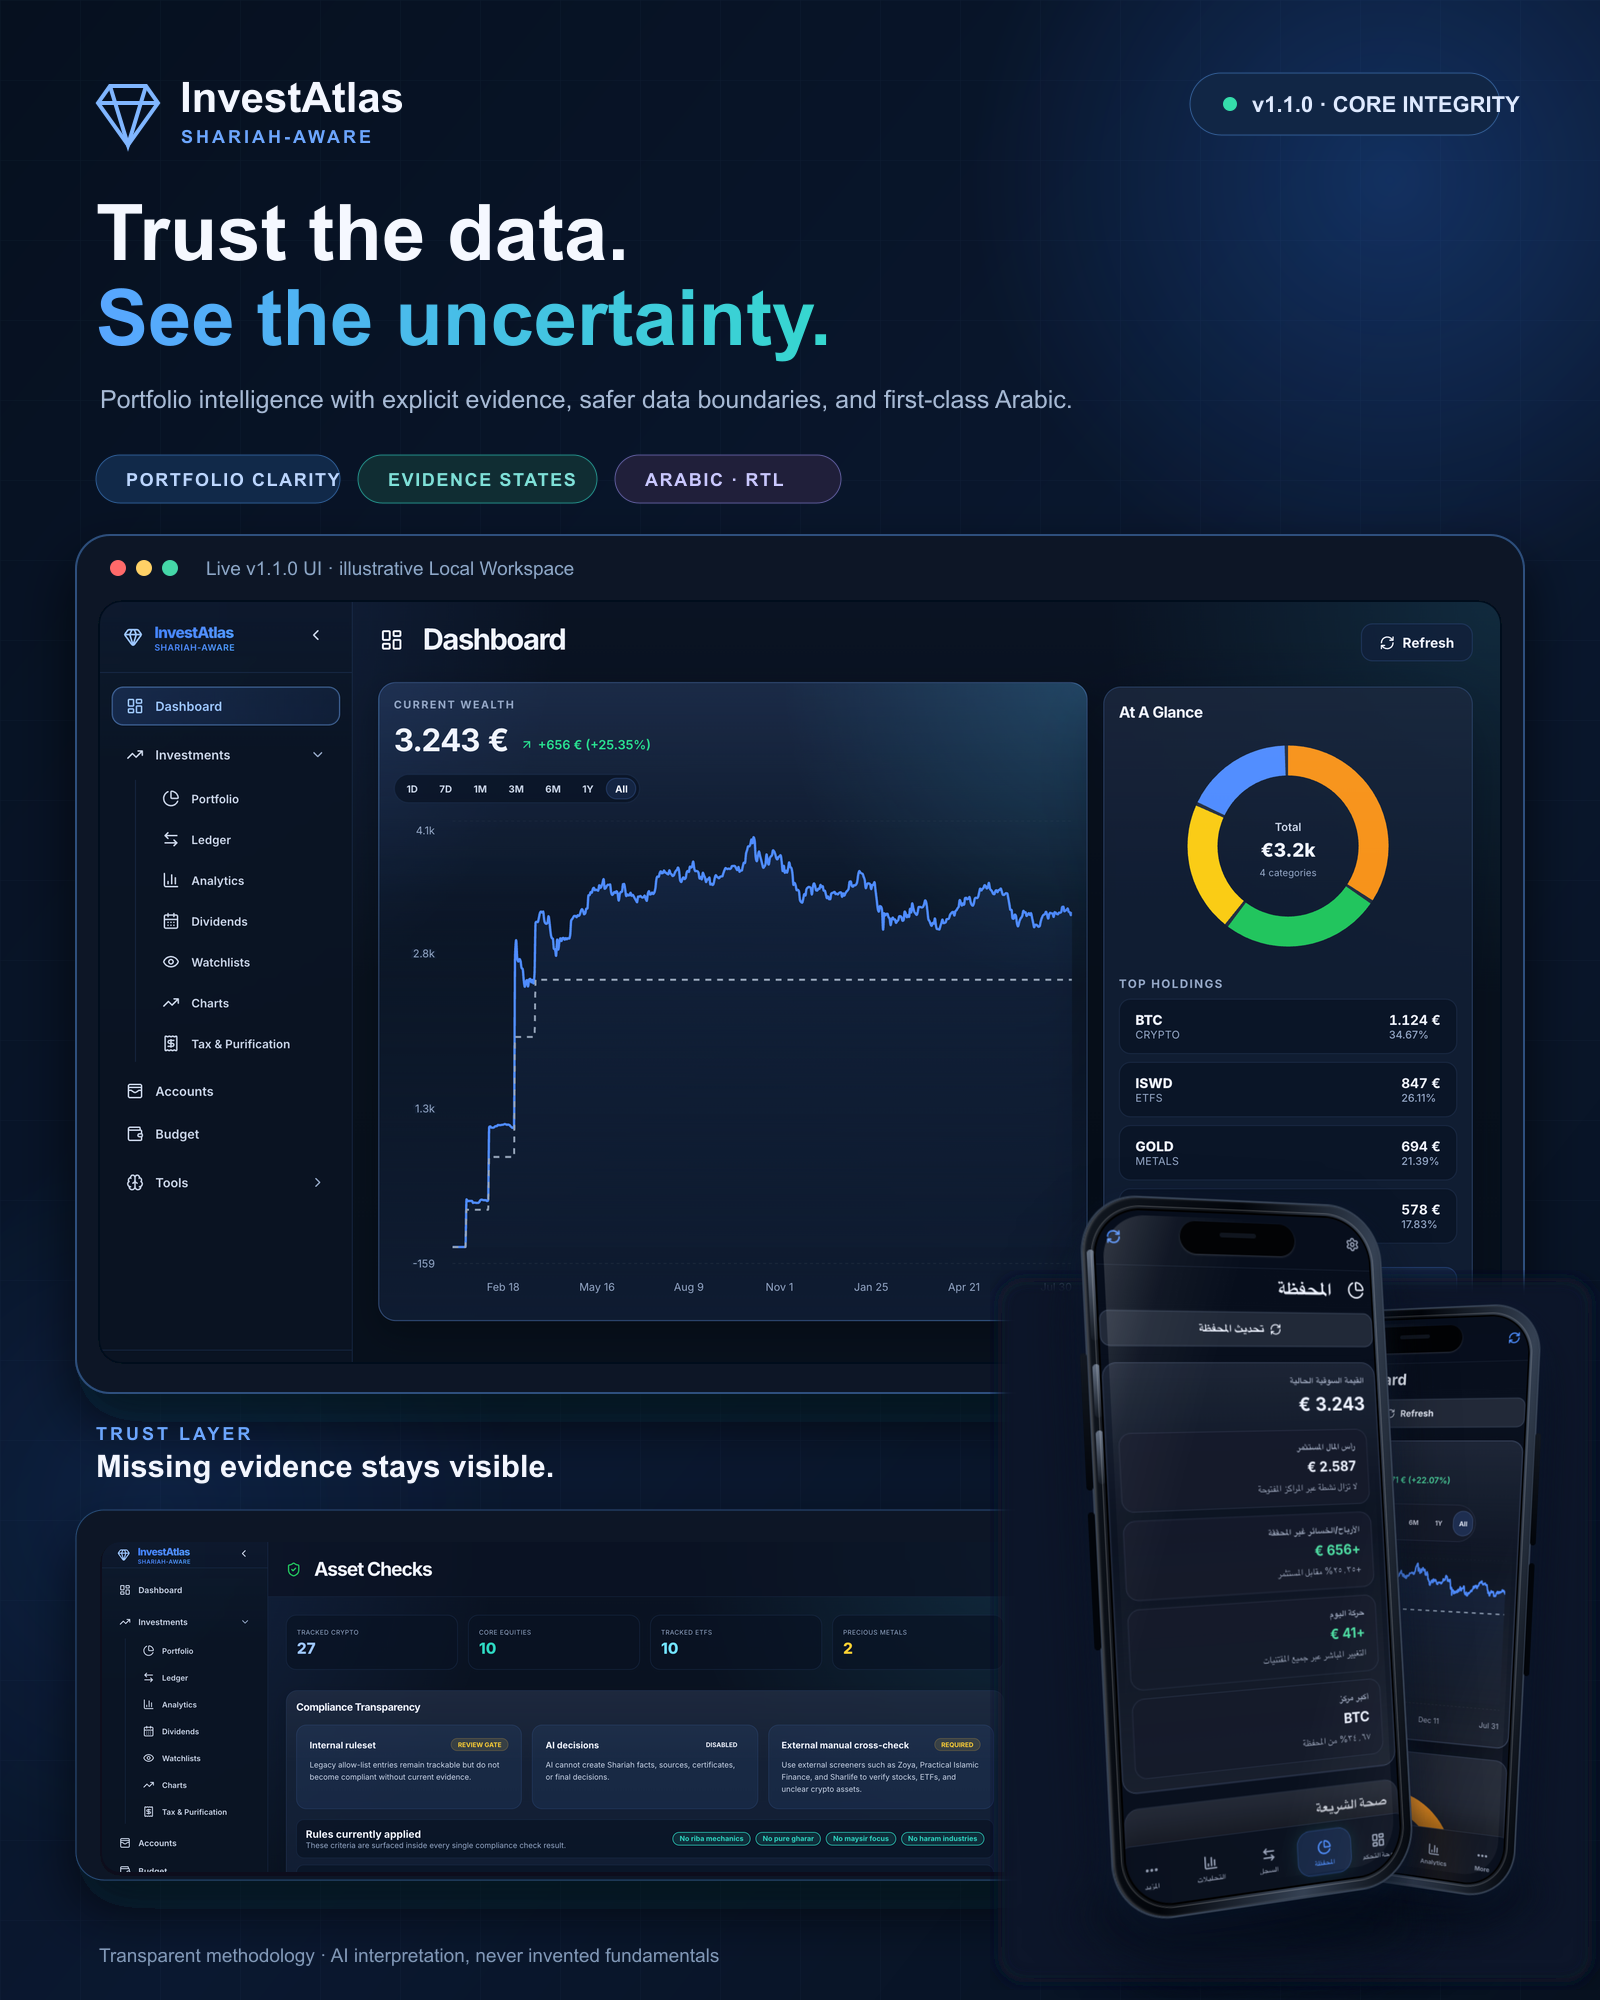
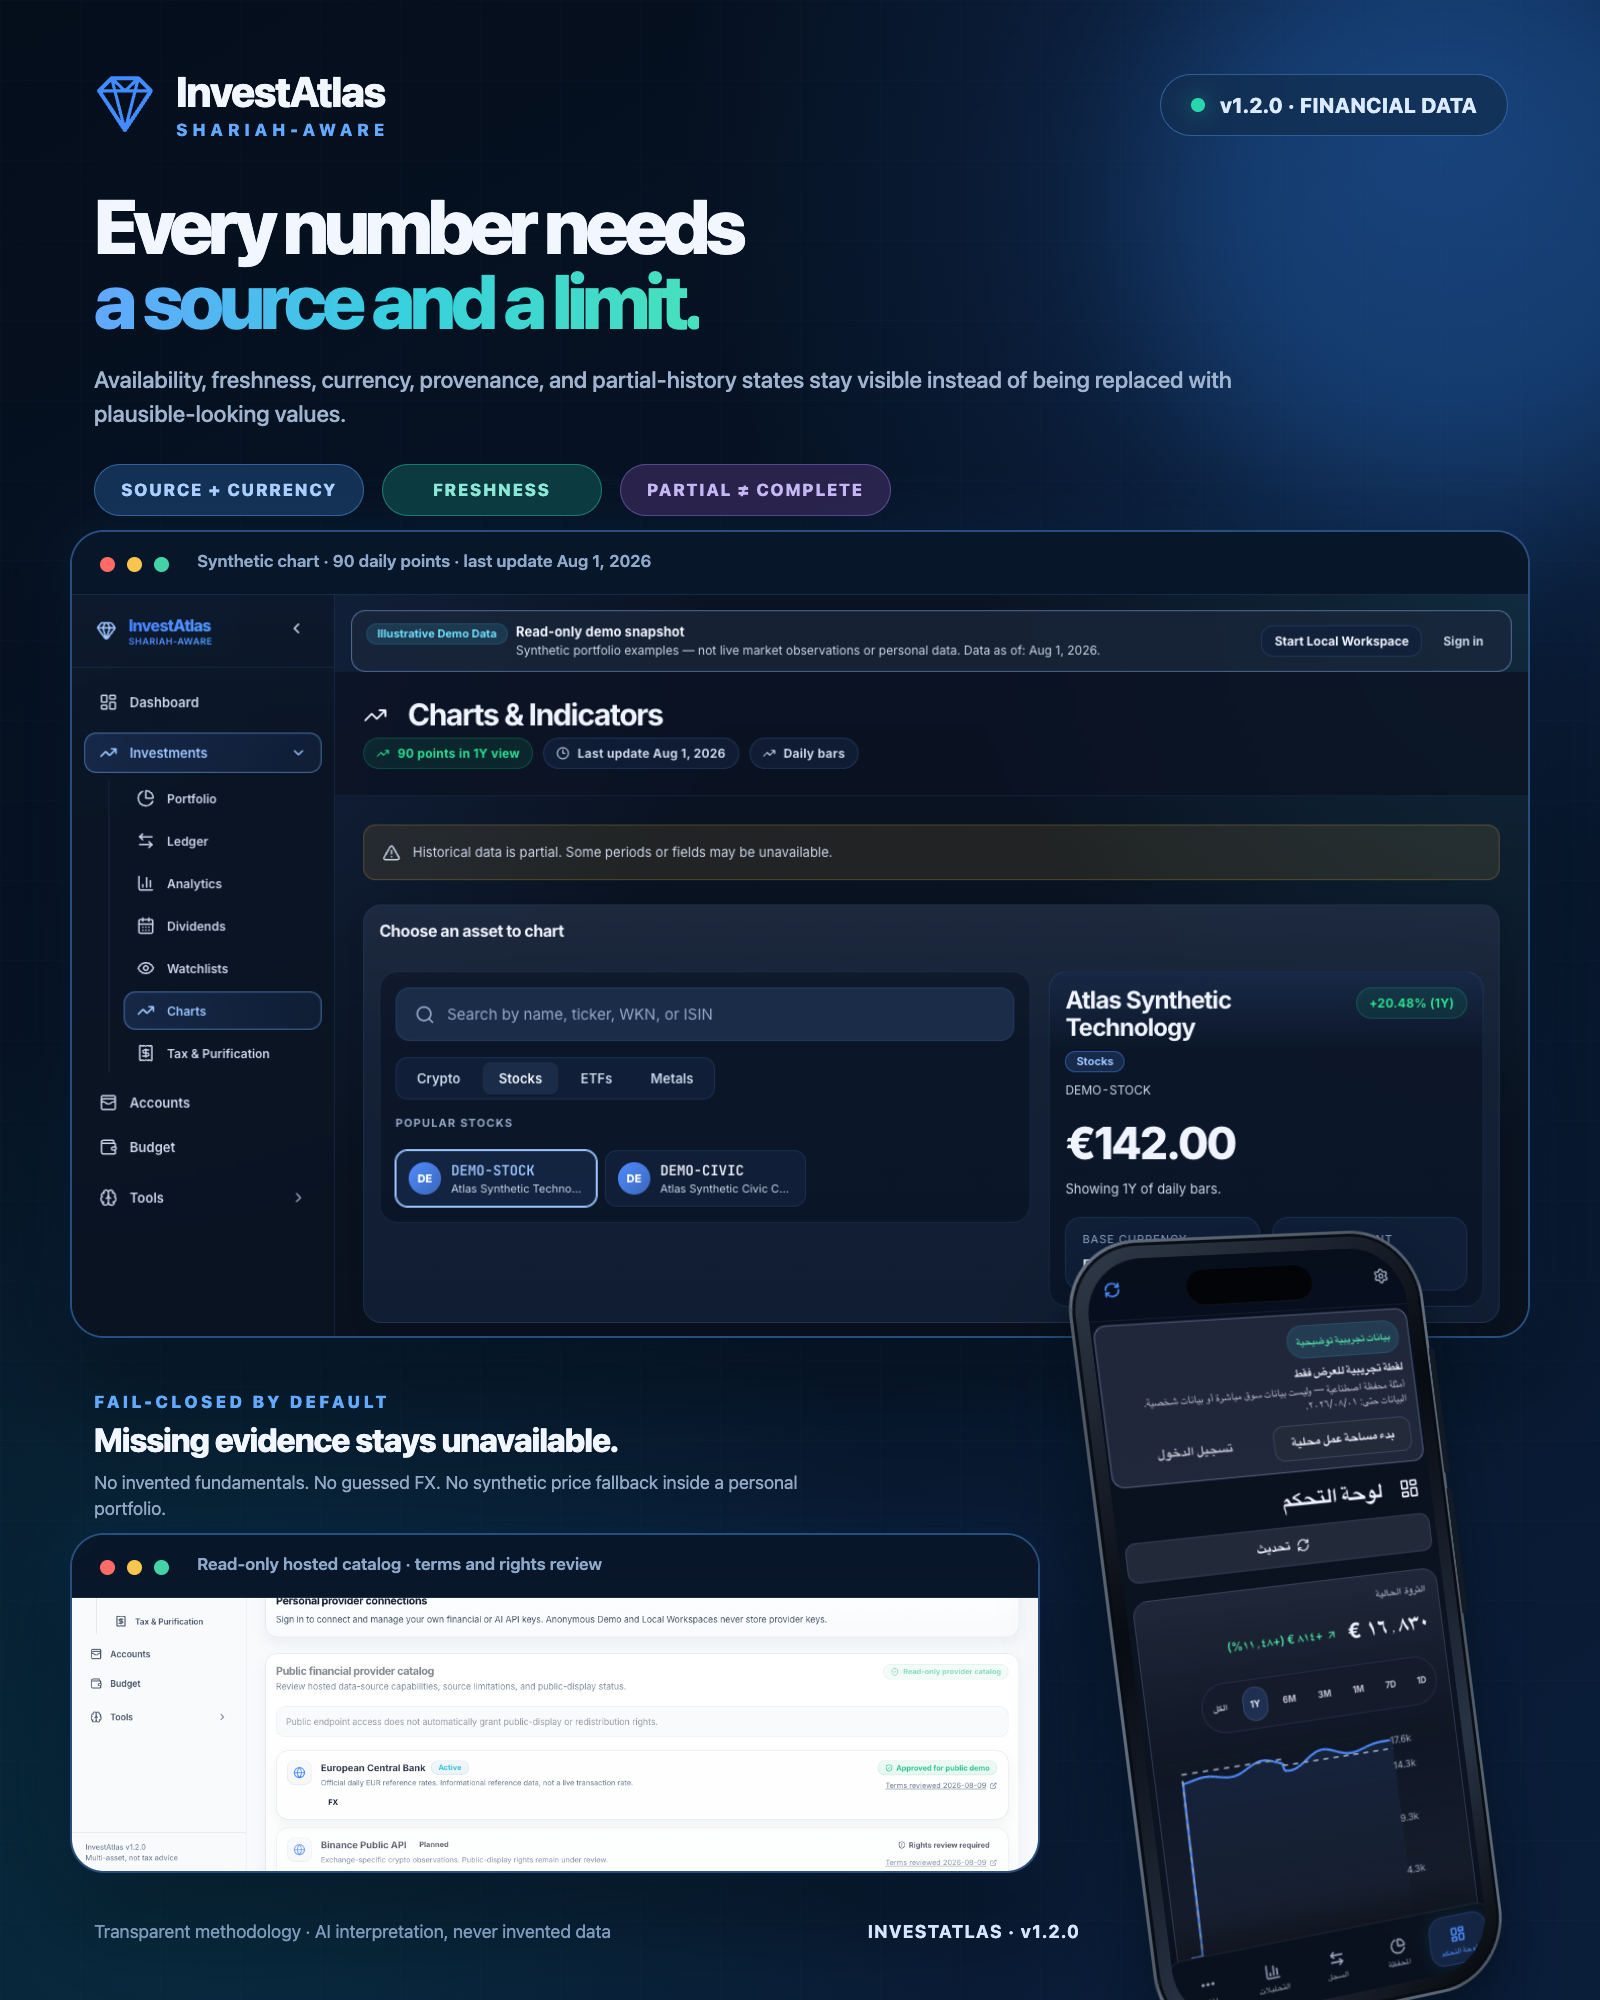
docs: present v1.2 financial data foundation

Changed region(s): [[0.0312, 0.0, 1.0, 1.0], [0.9688, 0.961, 1.0, 1.0], [0.7812, 0.992, 0.8125, 1.0]]

diff --git a/README.md b/README.md
@@ -10,7 +10,7 @@ InvestAtlas helps Muslim investors understand what a transparent, implemented sc
 
 Around that trust-first core, the app combines portfolio tracking, allocation analytics, country-aware tax awareness, technical strategy tools, purification support, optional AI interpretation, and bilingual desktop/mobile experiences.
 
-Current public release: **v1.1.0 — Core Integrity**
+Current public release: **v1.2.0 — Financial Data Foundation**
 
 ## 🧭 Product Priorities
 
@@ -34,7 +34,9 @@ Current public release: **v1.1.0 — Core Integrity**
 | 🧪 Strategy Lab | Explore SMA, Dual-SMA, momentum, Golden Cross, Death Cross, and backtesting concepts |
 | 🎯 Crypto Plan | Plan savings/DCA allocation from budget, ATH drawdown, and AI-assisted reasoning |
 | 🤖 Ask AI | Connect a user-owned AI provider through masked, server-managed key metadata |
-| ☁ Cloud or Local | Use Firebase as the signed-in cloud path or an isolated anonymous Local Workspace |
+| 🧭 Demo Snapshot | Explore a dated, read-only synthetic portfolio that never enters personal calculations |
+| 🔎 Financial Data Trust | Keep source, currency, freshness, calculation, partial-data, and unavailable states visible |
+| ☁ Demo, Local, or Cloud | Use the isolated showcase, an editable browser workspace, or Firebase as the signed-in cloud path |
 | 🌐 Bilingual UI | Use English/LTR or Arabic/RTL across desktop and mobile |
 
 ## 🤖 Ask AI With User-Owned API Keys
@@ -54,13 +56,18 @@ AI can explain existing portfolio information, allocation, risk, strategy calcul
 ## 🚀 How To Start
 
 1. Open the InvestAtlas demo link.
-2. Create an account or sign in.
-3. Go to **Settings → AI Providers**.
-4. Add your own API key from a supported provider.
-5. Test and save the provider.
-6. Use **Ask AI**, **Strategy**, **Crypto Plan**, or AI-assisted import features.
+2. Review and accept the linked Demo terms, privacy information, and financial-data limitations.
+3. Explore the read-only **Demo Snapshot**, or start a separate editable **Local Workspace**.
+4. Sign in only when you want a Firebase-backed personal workspace or optional AI interpretation.
+5. Add a supported user-owned AI key in Settings if you want to use AI-assisted features.
 
-The core portfolio Demo remains usable without an AI key.
+The core Demo remains usable without an account, AI key, or financial-data key.
+
+## 🧭 Financial Data Transparency
+
+v1.2 introduces a field-level trust model for availability, source, currency, freshness, observation date, and calculated values. Missing information remains unavailable instead of being replaced with a plausible estimate.
+
+The public hosted release intentionally activates only official European Central Bank reference FX. Shared stock and crypto quote/history providers remain disabled while display, proxy, permission, or redistribution rights are unresolved. A Tiingo BYOK adapter exists for local engineering, but hosted connection and market-data display remain disabled pending written rights clarification. The signed-out Demo Snapshot stays useful through clearly labelled, dated synthetic examples that are isolated from personal data.
 
 ## 🧪 Strategy And Savings-Plan Intelligence
 
@@ -70,35 +77,46 @@ The Crypto Plan / savings-plan area can use budget, selected assets, all-time-hi
 
 ## 🖼 Screenshots
 
-### v1.1 Product Overview
+### v1.2 Demo Snapshot Overview
 
 <p align="center">
-  <img src="screenshots/poster-light-mode-overview.png" alt="InvestAtlas v1.1 portfolio overview in light mode with a 3D iPhone presentation" width="720">
+  <img src="screenshots/poster-light-mode-overview.png" alt="InvestAtlas v1.2 read-only synthetic Demo Snapshot and hosted provider transparency in light mode with a 3D iPhone presentation" width="720">
 </p>
 
-### v1.1 Trust Layer & Dark Mode
+### v1.2 Financial Data Trust & Dark Mode
 
 <p align="center">
-  <img src="screenshots/poster-dark-mode.png" alt="InvestAtlas v1.1 dark-mode trust layer with English and Arabic mobile views" width="720">
+  <img src="screenshots/poster-dark-mode.png" alt="InvestAtlas v1.2 financial-data provenance and fail-closed states in dark mode with an Arabic RTL 3D iPhone view" width="720">
 </p>
 
 The screening interface exposes unavailable evidence and the implemented methodology's limitations. It does not present an automated result as a fatwa or replace qualified scholarly advice.
 
-### v1.1 Analytics
+### v1.2 Market Context
 
 <p align="center">
-  <img src="screenshots/poster-light-mode-analytics.png" alt="InvestAtlas v1.1 portfolio analytics and allocation with a 3D iPhone presentation" width="720">
+  <img src="screenshots/poster-light-mode-analytics.png" alt="InvestAtlas v1.2 visibly synthetic and dated charts and indicators with a 3D iPhone presentation" width="720">
 </p>
 
 ### Light, Dark & Arabic / RTL
 
 <p align="center">
-  <img src="screenshots/poster-light-dark-compare.png" alt="InvestAtlas v1.1 responsive light and dark interfaces with Arabic RTL on a 3D iPhone" width="720">
+  <img src="screenshots/poster-light-dark-compare.png" alt="InvestAtlas v1.2 responsive light and dark interfaces with English LTR and Arabic RTL on 3D iPhone presentations" width="720">
 </p>
 
-The poster set uses current illustrative v1.1 Local Workspace data. Arabic is a first-class interface language with RTL layout and explicit Shariah status terminology.
+The poster set uses the current v1.2 read-only Demo Snapshot and real hosted-provider policy UI. All holdings and charts shown are synthetic and dated. Arabic is a first-class interface language with RTL layout and explicit Shariah status terminology.
 
 ## 🧾 Release History
+
+### v1.2.0 — Financial Data Foundation
+
+- Added field-level availability, source, currency, freshness, quality, and provenance contracts.
+- Added official ECB EUR/USD reference FX with attribution and fail-closed freshness handling.
+- Added a deterministic, dated, read-only synthetic Demo Snapshot, isolated from Local and Firebase workspaces.
+- Prevented synthetic Demo values from entering personal P&L, valuation, history, or portfolio calculations.
+- Added transparent hosted-provider catalog and English/Arabic Terms, Privacy, and Financial Data Disclaimer surfaces.
+- Added an encrypted Financial Provider vault and a locally testable Tiingo BYOK adapter; hosted Tiingo use remains disabled pending written rights clarification.
+- Hardened market-data boundaries against redirects, arbitrary hosts, oversized or malformed responses, stale/incomplete history, secret exposure, and cross-user state.
+- Completed desktop, Arabic/RTL mobile, iPhone Safari, build, test, dependency, and independent security review.
 
 ### v1.1.0 — Core Integrity
 
